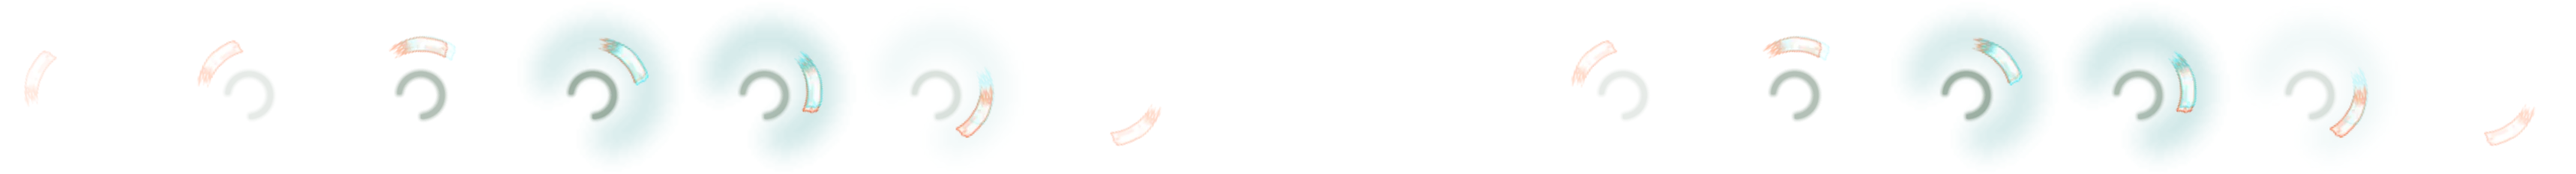
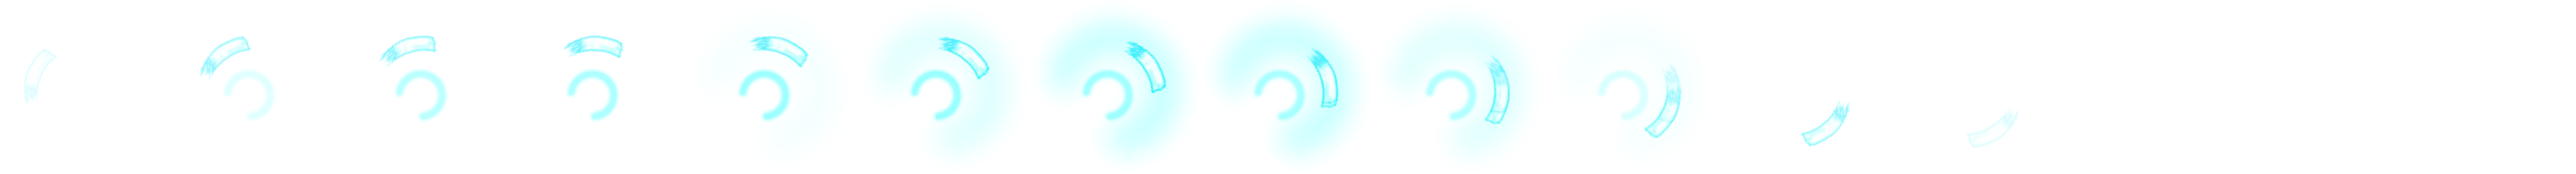
Original hit starburst and smoke-puff death; fix UI rig clip matching
- Every damaging hit (direct, combo, damage-over-time) plays the original
  white starburst (sys_0020_hit_dageki) on the target; consecutive hits cycle
  through its three bursts (js/battle/battle-ui-fx.js).
- Death: units no longer fade out. Sprite units fall with their KO sheet,
  then vanish inside the original smoke puff (sys_0012_kemuri_b); other
  units vanish in the puff at once, and the element is removed.
- build_ui.py took each rig's clip by binding overlap, which gave several
  rigs (0073 ougi_hatsdou among them) another rig's animation. Each rig now
  uses the AnimatorController of the same name; 6 sheets re-rendered.
- Service worker cache v150.

Claude-Session: https://claude.ai/code/session_01Fto18FkVtS9fCK2tTpC3MS

diff --git a/js/battle/battle-ui-fx.js b/js/battle/battle-ui-fx.js
@@ -1,0 +1,136 @@
+/* The original game's battle effects, played from the sheets in assets/ui/original/anim
+ * (tools/sprites/ipa_rig/build_ui.py):
+ *
+ *  - hit: sys_0020_hit_dageki, the white starburst with a spark ring, on the target of every
+ *    damaging hit (direct hits, combo hits, damage-over-time ticks). The sheet holds three
+ *    bursts; consecutive hits on a unit cycle through them.
+ *  - death: sys_0012_kemuri_b, the white smoke puff. A dying unit vanishes inside the puff
+ *    (no fade): sprite units after their knock-down ('ko') sheet, other units at once.
+ *
+ *   BattleUiFx.play(name, { host, x, y, height, from, to }) -> Promise (resolves when done)
+ *   BattleUiFx.hit(unit, dom)       BattleUiFx.vanish(el, host[, rect]) -> Promise
+ *
+ * Hooks by wrapping BattleAnimations.showDamage / showComboHit / showDamageNumber.
+ * Death: BattleUnits.updateUnitDisplay and BattleHitReact's KO stand-in call vanish().
+ * Must load after battle-hit-react.js.
+ */
+(() => {
+  "use strict";
+
+  const BASE = 'assets/ui/original/anim/';
+  const HIT = { name: 'sys_0020_hit_dageki', bursts: [[0, 6], [7, 11], [12, 16]] };
+  const PUFF = 'sys_0012_kemuri_b';
+  const PUFF_HIDE_FRAME = 1;      // the unit disappears once the puff covers it
+  const HIT_GAP_MS = 60;          // per unit, so a barrage doesn't stack dozens of bursts
+  const reduceMotion = () => !!window.matchMedia?.('(prefers-reduced-motion: reduce)').matches;
+
+  const metas = {};
+  function meta(name) {
+    if (!metas[name]) {
+      metas[name] = fetch(`${BASE}${name}.json`).then(r => (r.ok ? r.json() : null)).catch(() => null);
+      const img = new Image(); img.src = `${BASE}${name}.webp`; // warm the sheet
+    }
+    return metas[name];
+  }
+  meta(HIT.name); meta(PUFF);
+
+  /**
+   * Play frames [from, to] of a sheet with its origin at (x, y) px inside host.
+   * height: drawn frame height in px. onFrame(i) is called as each frame shows.
+   */
+  async function play(name, { host, x, y, height, from = 0, to, onFrame, blend = 'screen' } = {}) {
+    const m = await meta(name);
+    if (!m || !host) return;
+    const last = Math.min(m.frames - 1, to == null ? m.frames - 1 : to);
+    const h = height || m.frameHeight;
+    const w = h * m.frameWidth / m.frameHeight;
+    const rows = Math.ceil(m.frames / m.columns);
+    const el = document.createElement('div');
+    el.className = `battle-ui-fx battle-ui-fx--${name}`;
+    Object.assign(el.style, {
+      position: 'absolute', pointerEvents: 'none', zIndex: '60',
+      left: `${x - m.origin[0] * w}px`, top: `${y - m.origin[1] * h}px`,
+      width: `${w}px`, height: `${h}px`,
+      backgroundImage: `url(${BASE}${name}.webp)`, backgroundRepeat: 'no-repeat',
+      backgroundSize: `${m.columns * w}px ${rows * h}px`, mixBlendMode: blend,
+    });
+    host.appendChild(el);
+    const show = i => {
+      el.style.backgroundPosition = `${-(i % m.columns) * w}px ${-Math.floor(i / m.columns) * h}px`;
+      try { onFrame?.(i); } catch (_) { /* cosmetic */ }
+    };
+    await new Promise(resolve => {
+      const t0 = performance.now();
+      let shown = -1;
+      const tick = now => {
+        const i = from + Math.floor((now - t0) / 1000 * m.fps);
+        if (i > last || !el.isConnected) { el.remove(); resolve(); return; }
+        if (i !== shown) { shown = i; show(i); }
+        requestAnimationFrame(tick);
+      };
+      show(from); shown = from;
+      requestAnimationFrame(tick);
+    });
+  }
+
+  const sceneOf = dom => dom?.scene || document.querySelector('.battle-scene, #battle-scene, #battleScene');
+
+  // centre of the unit's body inside its scene, and the body height
+  function bodyOf(unit, dom) {
+    const scene = sceneOf(dom);
+    const el = scene?.querySelector?.(`.battle-unit[data-unit-id="${unit.id}"]`);
+    const host = el?.parentElement;
+    if (!el || !host) return null;
+    const body = el.querySelector('.unit-sprite') || el;
+    const r = body.getBoundingClientRect(), hr = host.getBoundingClientRect();
+    if (!r.width && !r.height) return null;
+    return { host, x: r.left + r.width / 2 - hr.left, y: r.top + r.height * 0.55 - hr.top, h: r.height };
+  }
+
+  function hit(unit, dom) {
+    if (!unit || reduceMotion()) return;
+    const now = performance.now();
+    if (now - (unit._fxHitAt || 0) < HIT_GAP_MS) return;
+    unit._fxHitAt = now;
+    const b = bodyOf(unit, dom);
+    if (!b) return;
+    const k = (unit._fxHitN = ((unit._fxHitN || 0) + 1) % HIT.bursts.length);
+    const [from, to] = HIT.bursts[k];
+    // the burst is centred on its origin; its core is about a third of the frame
+    play(HIT.name, { host: b.host, x: b.x, y: b.y, height: Math.max(170, b.h * 2.6), from, to });
+  }
+
+  /** Smoke puff over el; el is hidden (not faded) as the puff covers it. */
+  function vanish(el, host, rect) {
+    host = host || el?.parentElement;
+    if (!el || !host) return Promise.resolve();
+    const r = rect || el.getBoundingClientRect(), hr = host.getBoundingClientRect();
+    const hide = () => { el.style.transition = 'none'; el.style.visibility = 'hidden'; };
+    if (reduceMotion() || (!r.width && !r.height)) { hide(); return Promise.resolve(); }
+    const h = Math.max(160, r.height * 1.9);
+    return play(PUFF, {
+      host, x: r.left + r.width / 2 - hr.left, y: r.bottom - hr.top - r.height * 0.05, height: h,
+      blend: 'normal', onFrame: i => { if (i >= PUFF_HIDE_FRAME) hide(); },
+    }).then(hide);
+  }
+
+  function wrap(obj, name, after) {
+    const orig = obj?.[name];
+    if (typeof orig !== 'function' || orig._uiFx) return;
+    const w = function (...args) {
+      const r = orig.apply(this, args);
+      try { after.apply(this, args); } catch (e) { console.warn('[UiFx]', e); }
+      return r;
+    };
+    Object.assign(w, orig); // keep markers set by earlier wrappers
+    w._uiFx = true;
+    obj[name] = w;
+  }
+
+  const A = window.BattleAnimations;
+  wrap(A, 'showDamage', (unit, amount, isCritical, dom, isHeal) => { if (!isHeal && Number(amount) > 0) hit(unit, dom); });
+  wrap(A, 'showComboHit', (unit, amount, isCritical, dom) => { if (Number(amount) > 0) hit(unit, dom); });
+  wrap(A, 'showDamageNumber', (unit, amount, isHeal) => { if (!isHeal && Number(amount) > 0 && unit?.stats) hit(unit, null); });
+
+  window.BattleUiFx = { play, hit, vanish };
+})();

diff --git a/js/battle/battle-hit-react.js b/js/battle/battle-hit-react.js
@@ -6,9 +6,9 @@
  *    flinching instead of stuttering on frame 0. A unit that is busy with its
  *    own run / attack / jutsu / ultimate sheet is never interrupted.
  *  - When a sprite unit's HP reaches 0 its 'ko' sheet plays on a stand-in
- *    element that holds the last (knocked-down) frame and then fades out, so
- *    the regular death cleanup (BattleUnits.updateUnitDisplay removes the
- *    unit's element after 0.5s) can run untouched.
+ *    element that holds the last (knocked-down) frame, then vanishes in the
+ *    original smoke puff (BattleUiFx.vanish), so the regular death cleanup
+ *    (BattleUnits.updateUnitDisplay removes the unit's element) can run untouched.
  *  - Portrait units (no sprite) get a short knockback: white flash, push away
  *    from the enemy side, slight backward tilt, settle.
  *
@@ -22,7 +22,7 @@
 
   const HIT_RESTART_MS = 250;  // min gap between restarts of the hit sheet
   const PORTRAIT_GAP_MS = 200; // min gap between portrait knockbacks
-  const KO_HOLD_MS = 900;      // knocked-down frame stays this long before fading
+  const KO_HOLD_MS = 450;      // knocked-down frame stays this long before the smoke puff
   const BUSY = new Set(['run', 'attack', 'jutsu', 'ultimate']);
 
   const reduceMotion = () => !!window.matchMedia?.('(prefers-reduced-motion: reduce)').matches;
@@ -112,14 +112,11 @@
         ko.el.style.backgroundPosition = `${-(last % meta.columns) * w}px ${-Math.floor(last / meta.columns) * h}px`;
       });
     }).then(() => new Promise(r => setTimeout(r, KO_HOLD_MS)))
-      .then(() => {
-        const a = stand.animate?.([{ opacity: 1 }, { opacity: 0 }], { duration: 500, fill: 'forwards' });
-        if (a) a.onfinish = cleanup; else cleanup();
-      })
-      .catch(() => {
-        // No ko sheet: let the regular fade handle it.
-        if (!swapped) cleanup();
-        else { sp.el.style.visibility = ''; cleanup(); }
+      .then(() => (window.BattleUiFx ? window.BattleUiFx.vanish(ko.el, host) : null))
+      .then(cleanup, () => {
+        // No ko sheet: the unit goes in the smoke puff where it stood.
+        if (window.BattleUiFx) window.BattleUiFx.vanish(stand, host, slotR).then(cleanup, cleanup);
+        else cleanup();
       });
   }
 

diff --git a/js/battle/battle-units.js b/js/battle/battle-units.js
@@ -280,17 +280,21 @@
       // Update visual state for dead units - make them disappear
       if (unit.stats.hp <= 0) {
         console.log(`[BattleUnits] 💀 Unit ${unit.name} is dead, removing from battlefield`);
-        unitEl.style.transition = 'opacity 0.5s ease-out, transform 0.5s ease-out';
-        unitEl.style.opacity = "0";
-        unitEl.style.transform = "scale(0.8)";
+        // Gone from the field, not faded: sprite units already show their knock-down on
+        // BattleHitReact's stand-in (which ends in the smoke puff), so the real element just
+        // goes; other units vanish inside the original smoke puff (BattleUiFx.vanish).
         unitEl.style.pointerEvents = "none";
-
-        // Remove from DOM after animation
-        setTimeout(() => {
-          if (unitEl.parentNode) {
-            unitEl.remove();
+        if (!unitEl._vanishing) {
+          unitEl._vanishing = true;
+          const gone = () => { if (unitEl.parentNode) unitEl.remove(); };
+          if (unit._koShown) {
+            setTimeout(gone, 200); // the stand-in has taken over the sprite by then
+          } else if (!window.BattleUiFx) {
+            gone();
+          } else {
+            window.BattleUiFx.vanish(unitEl).then(gone, gone);
           }
-        }, 500);
+        }
 
         // Also remove from team holder if player unit (unless the card still
         // carries a living backup, which can be swapped in)

diff --git a/battle.html b/battle.html
@@ -221,6 +221,7 @@
   <script defer src="js/battle/battle-digits.js"></script>
   <script defer src="js/battle/battle-animations.js"></script>
   <script defer src="js/battle/battle-hit-react.js"></script>
+  <script defer src="js/battle/battle-ui-fx.js"></script>
   <script defer src="js/battle/battle-physics.js"></script>
   <script defer src="js/battle/battle-separation.js"></script>
   <script defer src="js/battle/battle-outcome-banner.js"></script>

diff --git a/sw.js b/sw.js
@@ -1,4 +1,4 @@
-const CACHE = 'blazing-shell-v149';
+const CACHE = 'blazing-shell-v150';
 const BASE = new URL('./', self.location.href).pathname;
 const SHELL = [
   'index.html',

diff --git a/tools/sprites/ipa_rig/build_ui.py b/tools/sprites/ipa_rig/build_ui.py
@@ -44,11 +44,28 @@ def ui_rigs(path):
             ctrls.append((o.path_id, t))
         elif cn == 'SSPart':
             parts.setdefault(t['controller']['m_PathID'], []).append(t)
-    clips = [ss.Clip(o.read_typetree()) for o in env.objects if o.type.name == 'AnimationClip']
+    clips = {o.path_id: ss.Clip(o.read_typetree()) for o in env.objects if o.type.name == 'AnimationClip'}
+    # each rig has an AnimatorController of the same name holding its clip (the Animator on
+    # the rig's "animator" child gets it at runtime). Rigs share part paths, so matching
+    # clips by binding overlap alone picks the wrong one; that is only the fallback.
+    by_name = {}
+    for o in env.objects:
+        if o.type.name == 'AnimatorController':
+            t = o.read_typetree()
+            ids = [c['m_PathID'] for c in t.get('m_AnimationClips', [])]
+            if ids and ids[0] in clips:
+                by_name[t['m_Name'].lower()] = clips[ids[0]]
+
+    def clip_for(go, hs):
+        name = gos.get(go, '').lower()
+        if name in by_name:
+            return by_name[name]
+        return max(clips.values(), key=lambda c: sum(1 for b in c.bindings if b['path'] in hs))
+
     for cid, ct in ctrls:
         ps = sorted(parts.get(cid, []), key=lambda p: p['arrayIndex'])
         hs = {ss.H(p['path']) for p in ps}
-        clip = max(clips, key=lambda c: sum(1 for b in c.bindings if b['path'] in hs))
+        clip = clip_for(ct['m_GameObject']['m_PathID'], hs)
         tex = [objs[r['m_PathID']].read().image.convert('RGBA') if r['m_PathID'] in objs else None
                for r in ct['cellTextures']]
         cells = []

diff --git a/tools/sprites/ipa_rig/README.md b/tools/sprites/ipa_rig/README.md
@@ -51,7 +51,10 @@ Wooden Dragon jutsu isn't in the IPA, so the skin uses the base folder's
   effects, cursor, cut-ins, "Incoming Boss", "Ultra Combo") to
   `assets/ui/original/anim/`, the damage and hit-counter digit fonts to
   `assets/ui/original/font/` and the English text images to `assets/ui/original/text/`.
-  The fonts are used by `js/battle/battle-digits.js`.
+  The fonts are used by `js/battle/battle-digits.js`. Each rig's clip comes from the
+  AnimatorController of the same name (rigs share part paths, so matching by bindings
+  picks the wrong clip). `js/battle/battle-ui-fx.js` plays `sys_0020_hit_dageki` (white
+  starburst) on every hit and `sys_0012_kemuri_b` (smoke puff) when a unit dies.
 
 ```
 python3 tools/sprites/ipa_rig/build_gimmicks.py ipa/Payload/BNEI0249.app/Data/Raw/AssetBundle/iOS
